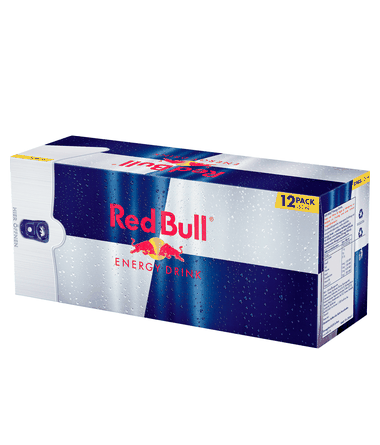
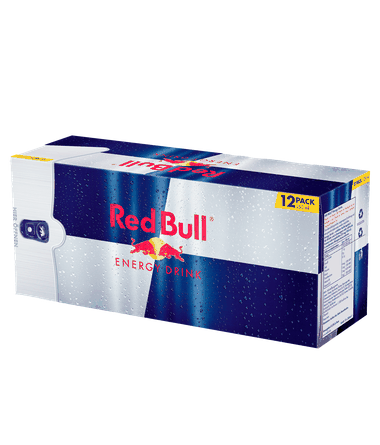
s

diff --git a/service-worker.js b/service-worker.js
@@ -1,4 +1,4 @@
-const CACHE_NAME = "canspot-cache-v89";
+const CACHE_NAME = "canspot-cache-v90";
 
 const APP_SHELL = [
   "./",

diff --git a/CLAUDE.md b/CLAUDE.md
@@ -40,7 +40,14 @@ Everything lives in one file, in this order: `<style>` (CSS custom properties + 
 
 **Images**: product images and store logos are hotlinked directly from the official manufacturer/retailer websites (no local copies), with `onerror` handlers falling back to inline SVG data-URIs (`FALLBACK_IMG`, `STORE_FALLBACK_IMG`). This is called out explicitly in the in-app disclaimer text — preserve that disclaimer if the data source approach changes. An offer can optionally override the image for that specific deal via `offer.bundleImg` (a multipack/tray packshot, used for multipack offers where `units > 1` so the card shows the actual pack instead of a single can) — `buildDeals()` prefers it over `product.img` when present; absent (the default for every offer), behavior is unchanged. The product catalog itself (`products[].img`, used by the product-detail sheet and "Ähnliche Produkte") is never affected by `bundleImg` — it always shows the single-can shot.
   - **Deliberate exception — `images/bundles/`**: the favorite-heart button on a deal card sits fixed at the top-right of the thumbnail (`.thumb-frame .btn.fav`, no backdrop/shadow/frame by design — a solid backdrop circle was tried and explicitly rejected). Virtually every official multipack packshot places pack-count marketing directly in that exact corner (a printed "4/6/12/24 PACK" ribbon baked into the retailer's own product photo, a marketplace-injected badge, or simply the pack/tray photographed edge-to-edge with no margin anywhere to reposition around), so the heart would sit on top of the artwork no matter which corner it's pinned to or which raw hotlinked photo is chosen. Every `bundleImg` in `deals.json` is therefore, as of now, a locally-edited copy under `images/bundles/` (relative path, same `offer.bundleImg` mechanism as before) rather than a raw hotlink — this is a deliberate, blanket exception to the hotlinking policy above, specific to multipack packshots, not a reversal of it (every `products[].img` single-can photo and every store logo is still hotlinked, unchanged).
-    - **Recipe, apply identically to any future bundle image**: (1) fetch the highest-resolution version of the source photo available (Amazon/REWE/other retailer image CDNs usually accept a size parameter in the URL — try a few before settling for a small default); (2) if the source has an opaque (usually white) background, remove it in TWO steps, not one — a plain `ImageDraw.floodfill` from the corners (thresh ~20-25) alone reliably leaves a ragged, speckled light fringe around the silhouette on small/JPEG-compressed sources (compression ringing around high-contrast edges isn't caught by a single connected-region flood fill). After the flood fill, do a second cleanup pass: dilate the resulting transparent mask by a couple of pixels to define a "border zone" just inside the new silhouette edge, and within *that zone only* clear any remaining bright/whitish pixels (mean RGB above ~200) to transparent too. Restricting the brightness cut to the dilated border zone (instead of applying it globally) is what keeps this safe — it removes fringe without eating into legitimate light-colored product artwork further inside the image. Skip both steps only if the source is already a clean transparent PNG. (3) pad the canvas with extra transparent margin, top-heavy (roughly 3-4× more on top than bottom), sized so the top margin ends up at **≥30% of the final canvas height** — this is the actual number that clears `.thumb-frame .btn.fav`'s footprint (top-right ~25% height × ~30% width of the rendered thumbnail) with a safety buffer; (4) resize down to a sensible thumbnail resolution and PNG-quantize for file size; (5) verify by compositing the result over both a light and a dark solid background *and viewing at 3-4× zoom*, not just at thumbnail scale — the speckled fringe from step 2 is easy to miss in a small full-image preview and only becomes obvious zoomed in on the edge.
+    - **Recipe, apply identically to any future bundle image**:
+      1. Fetch the highest-resolution version of the source photo available (Amazon/REWE/other retailer image CDNs usually accept a size parameter in the URL — try a few before settling for a small default).
+      2. **Decide whether the source needs background removal at all — don't assume a transparent PNG is already clean.** Check the alpha channel's own bounding-box corners (a few px inset, to skip antialiasing): if they're already transparent, the source is a properly-separated non-rectangular silhouette (some REWE assets are already correctly cut out this way) — do NOT re-run flood-fill on it; doing so re-derives the whole silhouette from scratch by color-matching alone, and any part of the *product itself* that happens to be plain white/background-colored *and* touches the image's outer background (a white box panel merging into a white studio backdrop, say) will get wrongly matched and erased too, since flood-fill has no way to know that region is "product" rather than "background" once their colors are identical and they're path-connected. This exact regression happened to a Monster Ultra 4-pack box panel after applying flood-fill unconditionally to every source "for consistency." If the bbox corners are instead already *opaque*, the source has a baked-in rectangular "lake" of un-removed background around/behind the actual (often tilted/isometric) product shot — REWE's own separation is not uniformly reliable across their catalog, unlike Amazon's always-opaque JPGs which always need step 3.
+      3. For sources that DO need it: remove the opaque (usually white) background in two steps. First, a **corner-seeded flood-fill on the image composited onto a plain white background first** (not on the raw RGBA source directly) — `ImageDraw.floodfill` matches on all 4 RGBA channels, so seeding from a pixel that's already transparent (alpha 0) can never bridge to opaque background pixels (alpha 255) regardless of threshold or RGB similarity; compositing onto white before flood-filling makes any pre-existing transparency register as plain white too, restoring correct connectivity. Second, the same border-zone cleanup as before: dilate the resulting transparent mask by a couple of pixels, and within *that zone only* clear remaining bright/whitish pixels (mean RGB above ~200) — a plain flood-fill alone reliably leaves a ragged, speckled light fringe on small/JPEG-compressed sources (compression ringing around high-contrast edges isn't one connected region). Restricting the brightness cut to the dilated border zone (not globally) avoids eating into legitimate light product artwork further inside the image. For sources skipped in step 2, still run this border-zone cleanup pass alone (cheap, and catches any stray fringe without touching the good silhouette).
+      4. Pad the canvas with extra transparent margin, top-heavy (roughly 3-4× more on top than bottom), sized so the top margin ends up at **≥30% of the final canvas height** — the number that clears `.thumb-frame .btn.fav`'s footprint (top-right ~25% height × ~30% width of the rendered thumbnail) with a safety buffer.
+      5. **Before resizing, extend the opaque product's edge colors outward into the surrounding transparent area** (iteratively propagate each opaque pixel's RGB into its still-transparent neighbors, alpha untouched, ~12-15 iterations). Skipping this step and resizing straight away causes a real bug: Pillow's `resize` interpolates the R/G/B and alpha channels independently ("straight", not premultiplied alpha), so wherever an opaque light-colored product area sits close to the padding/background (which stores arbitrary — typically black — RGB at alpha 0), downscaling blends that black-at-alpha-0 into the neighboring opaque pixels and paints a visible dark smear right there, even though the raw pre-resize image looked completely clean. This bug hid for a full round of fixes because it only shows up *after* the resize/quantize step — always re-check the *final* exported file, not just an intermediate.
+      6. Resize down to a sensible thumbnail resolution and PNG-quantize for file size.
+      7. Verify by compositing the *final* file over both a light and a dark solid background *and viewing at 3-4× zoom*, not just at thumbnail scale — fringe and smear artifacts are easy to miss in a small full-image preview.
     - **Never bake in a fixed white or dark background** — always transparent, exactly like every hotlinked single-can `products[].img`. This lets `.thumb{background:var(--bg-surface-sunken)}` (theme-aware) show through around the product in both themes automatically, with no separate light/dark version to maintain. (A fixed-color version was tried for the Red Bull 24er and reverted after it broke the *other* theme — don't repeat that.)
     - **Verify, don't estimate, that the heart is clear**: sample the pixel directly under the heart's rendered position (map the heart's `getBoundingClientRect()` into the image's natural coordinates via the `object-fit:contain` scale/offset math, exactly like a single-can image would render) rather than judging by eye — several "should be fine" paddings turned out short by a few pixels when actually measured this way.
 

diff --git a/PROJECT_STATE.md b/PROJECT_STATE.md
@@ -4,6 +4,26 @@ Laufendes Änderungsprotokoll für CanSpot. Neuester Eintrag oben. Für dauerhaf
 
 ---
 
+## 2026-09-05 (45) — Zwei echte Bugs in der Bildfreistellung gefunden: Schwarz-Verfärbung (Resize-Farbverlauf) und weißer Hintergrund (Flood-Fill-Limitierung)
+
+**Gemeldet**: (a) Monster Energy Ultra 24er zeigt im unteren Kartonbereich Schwarz statt der eigentlichen hellgrauen Verpackung im Dark Mode. (b) Red Bull 12er hat immer noch sichtbaren weißen Hintergrund.
+
+**Bug 1 — Schwarzfärbung durch Resize (betraf Monster Ultra 24er UND Monster Ultra 4er)**: Pillows `resize()` interpoliert RGB- und Alpha-Kanal unabhängig voneinander (kein premultiplied alpha). Da transparente Pixel aus dem Freistellen willkürliche RGB-Werte behalten (bei Flood-Fill z.B. Schwarz), erzeugt jedes Verkleinern in der Nähe der Grenze zwischen einer hellen, undurchsichtigen Produktfläche und dem transparenten Rand/Padding einen sichtbaren dunklen Verlaufs-Schmier — obwohl das Bild vor dem Resize noch sauber aussah. Genau das hat den unteren Kartonbereich (nah am unteren Padding-Rand) bei Monster Ultra 24er schwarz gefärbt; beim Testen fiel auf, dass Monster Ultra 4er denselben Fehler bereits VOR dieser Rückmeldung hatte (nicht gemeldet, aber beim Gegencheck gefunden).
+- **Fix**: Vor jedem Resize werden die Randfarben der undurchsichtigen Bildbereiche iterativ (~12-15 Durchläufe) in die angrenzenden transparenten Bereiche hinein ausgedehnt (Alpha bleibt unverändert, nur die RGB-Werte "bluten" nach außen) — danach verursacht das Resize keinen Farbkontrast mehr an dieser Grenze.
+
+**Bug 2 — Red Bull 12er zeigte weiterhin weißen Hintergrund**: Anders als angenommen war dieses REWE-Bild NICHT sauber freigestellt, sondern hatte nativ eine rechteckige Alpha-Maske mit einem eingebackenen weißen "See" um die eigentliche (isometrisch gekippte) Kartonform. Ursache im eigenen Flood-Fill-Ansatz gefunden: `ImageDraw.floodfill` vergleicht alle 4 RGBA-Kanäle — startet der Fill an einem bereits transparenten Eckpixel (Alpha 0), kann er niemals zu undurchsichtigen weißen Hintergrundpixeln (Alpha 255) vordringen, egal wie hoch der Schwellwert ist, weil allein die Alpha-Differenz (255) jeden sinnvollen Schwellwert übersteigt.
+- **Fix**: Vor dem Flood-Fill wird das Bild auf einen weißen Hintergrund kompositiert (macht bereits-transparente Randbereiche für den Fill wieder mit dem Hintergrund verbunden/gleichfarbig), erst DANN wird von den Ecken geflutet.
+- **Nebenbefund beim Beheben**: Nicht jedes REWE-Bild ist gleich sauber vorbereitet — andere REWE-Bilder (Red Bull 4er/6er, Monster Ultra 4er) waren nativ bereits korrekt freigestellt (Alpha-Maske an den Ecken der Inhalts-Bounding-Box bereits transparent), Red Bull 12er dagegen nicht. Pauschales erneutes Freistellen ALLER Bilder (wie in (44) gemacht) ist deshalb riskant: bei den bereits sauberen Bildern hat genau das Bug 1 hierüber hinaus noch verschärft, weil erneutes Flood-Fill dort baugleiche, aber eigentlich zum Produkt gehörende weiße Flächen (z.B. das weiße Rückseiten-Panel bei Monster Ultra 4er) fälschlich mit entfernt hat, wenn sie farblich nicht vom Hintergrund zu unterscheiden UND mit ihm verbunden waren.
+- **Fix**: Neue Erkennung vor dem Verarbeiten — Alpha-Werte an den (leicht eingerückten) Ecken der Inhalts-Bounding-Box prüfen: bereits transparent → Quelle ist sauber, Flood-Fill überspringen (nur die Randzonen-Bereinigung aus (44) läuft noch); bereits opak → Quelle braucht echtes Freistellen (Kompositieren-auf-Weiß-Ansatz von Bug 2).
+
+Alle 11 lokalen Bundle-Bilder mit beiden Fixes kombiniert aus den Original-Quellbildern neu erzeugt (Zuschnitt/Ränder aus (41)-(44) unverändert beibehalten). **Systematisch alle 11 erneut bei 3-4-facher Vergrößerung auf hellem UND dunklem Hintergrund geprüft** — keine Schwarz-/Weißverfärbung, keine Ränder mehr sichtbar. Zusätzlich per Canvas-Pixel-Sampling bestätigt, dass das Herz bei allen 13 Bundle-Angeboten weiterhin frei liegt. Als allgemeinen App-Check zusätzlich geprüft: Gesamtzahl Angebote (62), "Neuheiten"-Filter (weiterhin exakt 1 Treffer), Favoriten-Toggle (korrekt, mit frischer DOM-Abfrage statt der veralteten Referenz aus (43)), Produktdetail-Nährwerte (Monster Energy Ultra: 10 kcal/0g Zucker/150mg Koffein/4,5g Kohlenhydrate für 500ml, stimmt mit der Marken-/Produkt-Nährwerttabelle überein), Burger-Menü "Neuheiten"-Akkordeon (zeigt weiterhin Glacier Edition) — alles unauffällig, keine weiteren Bugs gefunden. Keine Konsolenfehler.
+- [CLAUDE.md](CLAUDE.md) aktualisiert: Freistellungs-Rezept um beide Fixes (Farb-Ausdehnung vor Resize, Kompositieren-auf-Weiß vor Flood-Fill) sowie die Ecken-Heuristik zur Erkennung bereits sauberer Quellen ergänzt.
+- `CACHE_NAME` in `service-worker.js` auf `canspot-cache-v90` erhöht (Pflichtregel).
+
+**Hinweis zum Umfang**: Ausschließlich Mobile-Version bearbeitet und verifiziert, wie seit [[feedback-scope-mobile-only-default]] festgelegt — Desktop/Webapp nicht angefasst, nicht getestet, nicht erwähnt.
+
+---
+
 ## 2026-09-05 (44) — Freistellungs-Bug (weiße Ränder) bei Monster Pipeline Punch gefunden und bei ALLEN Bundle-Bildern nachgebessert
 
 **Gemeldeter Bug**: Bei Monster Pipeline Punch 12er zeigte das freigestellte Bild im Dark Mode noch sichtbare weiße/helle Ränder um die Dosen/Box herum statt eines sauberen Ausschnitts.
